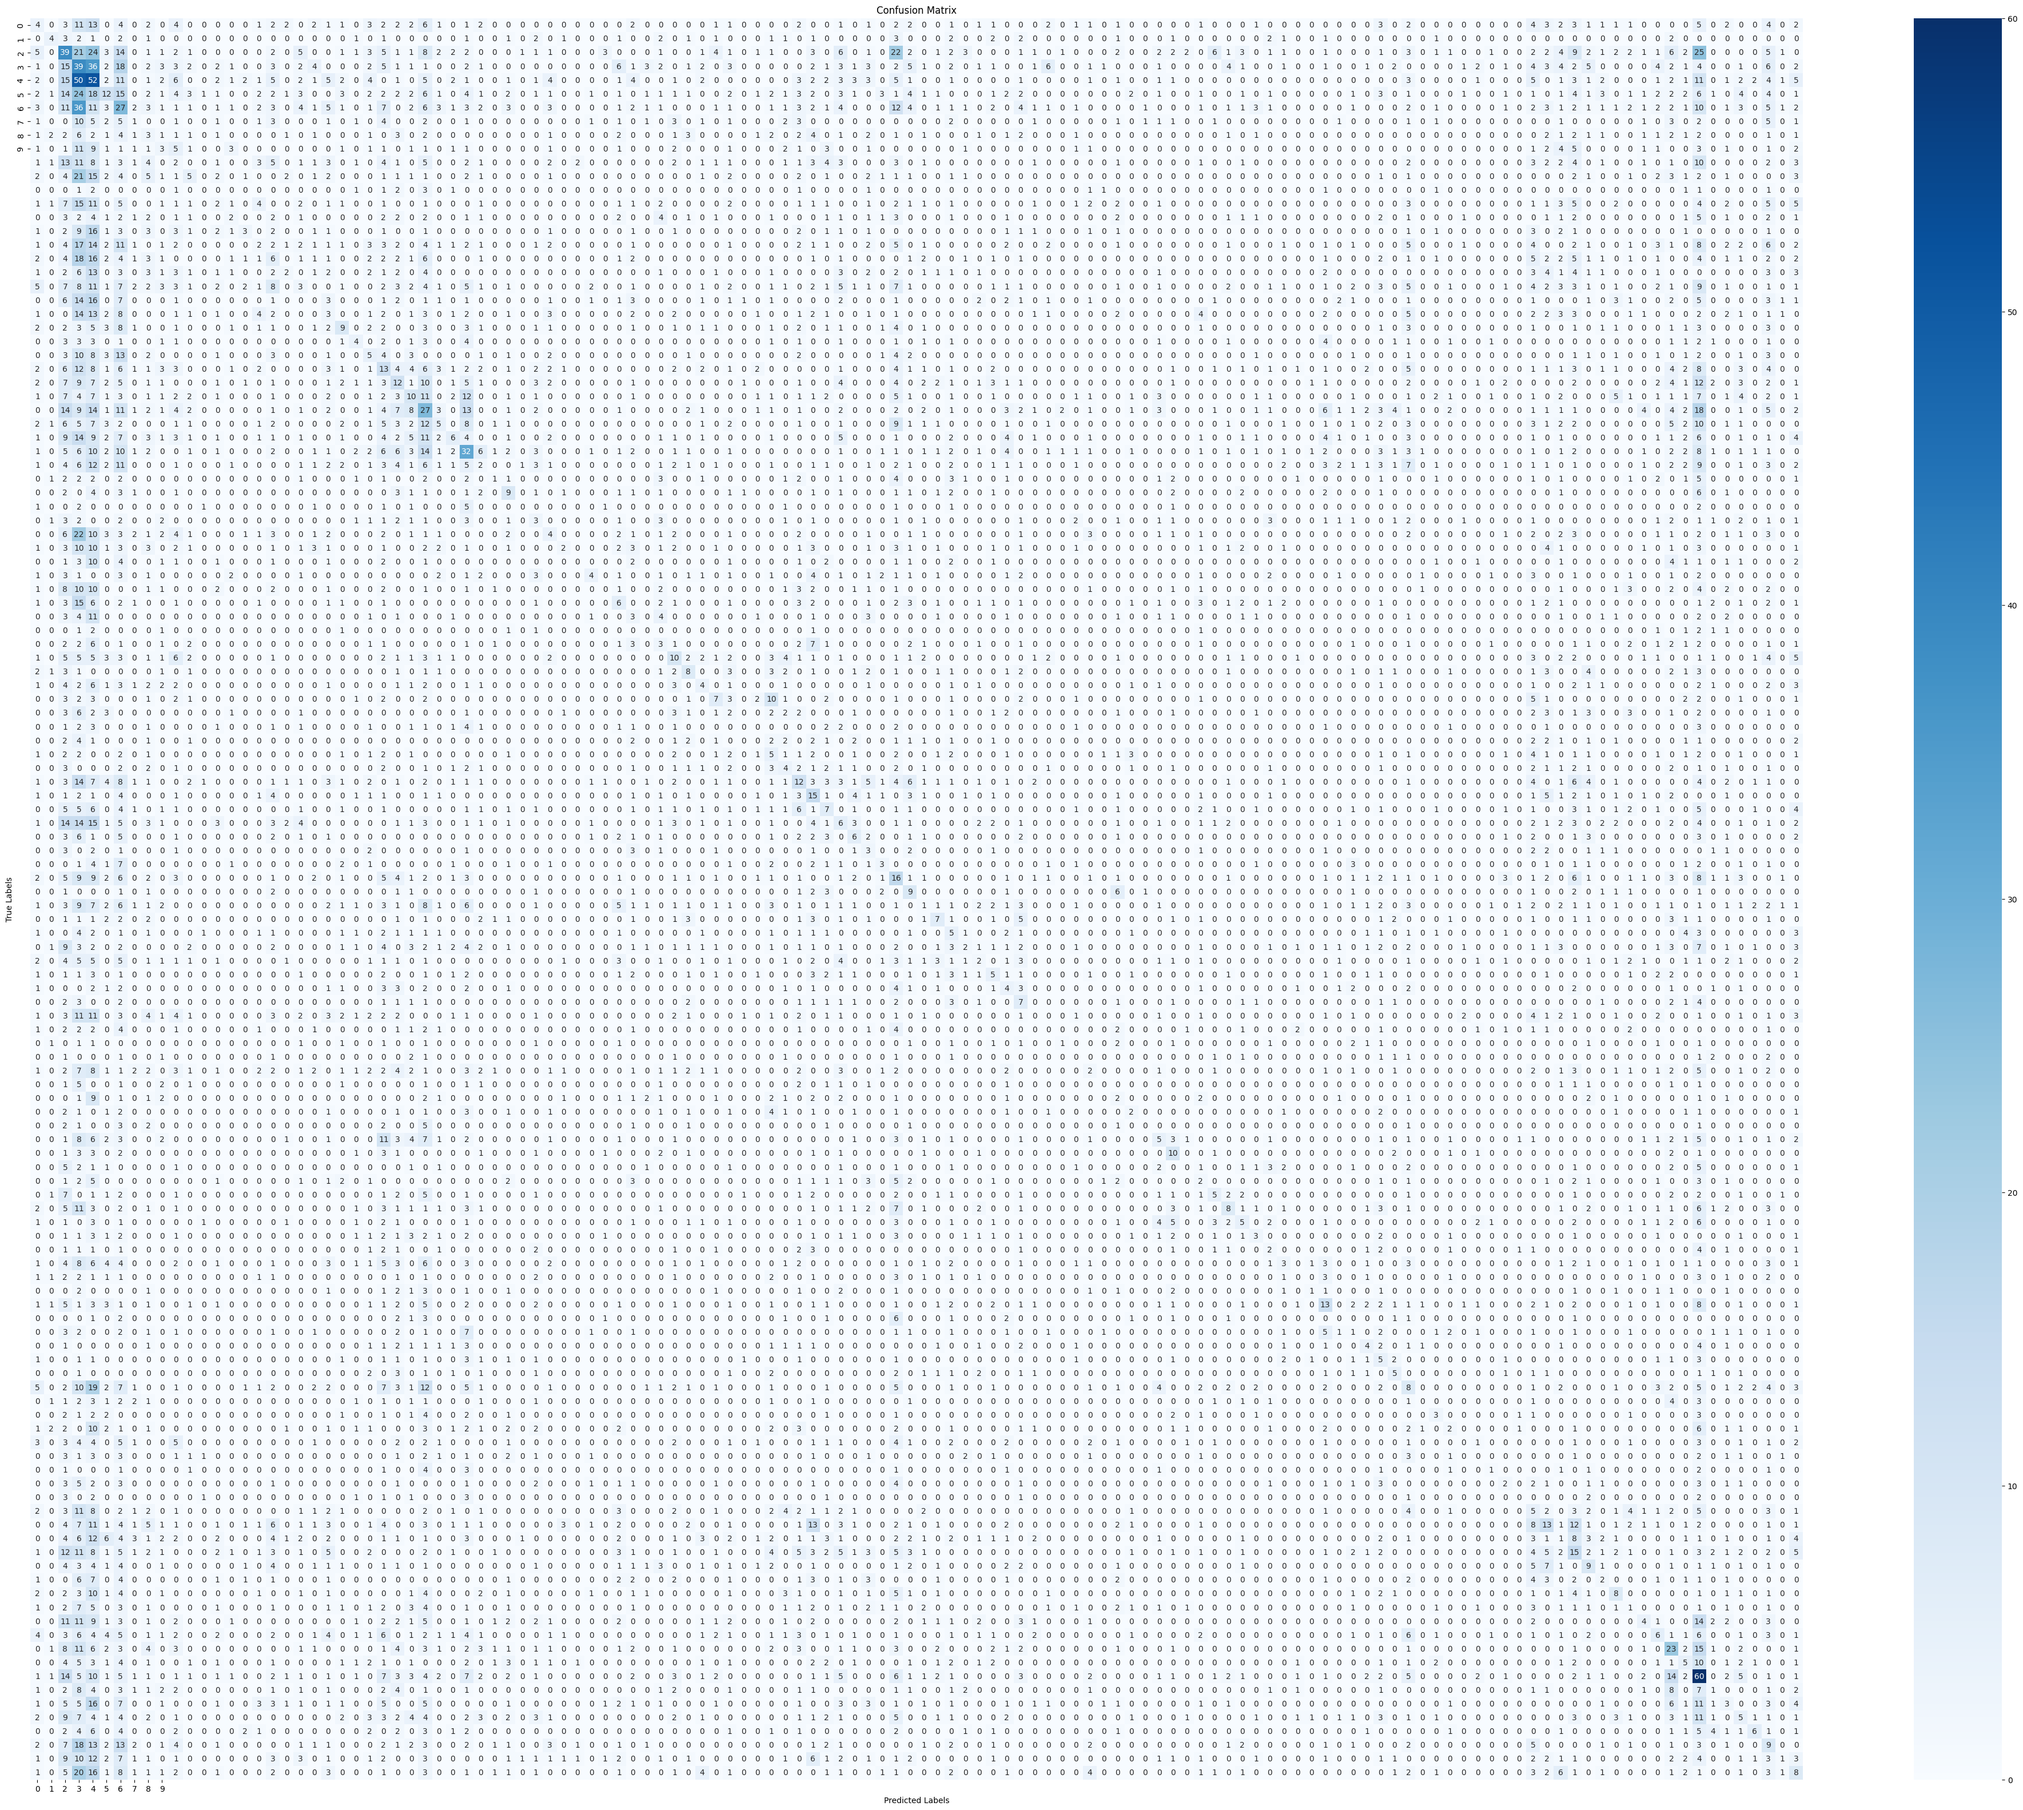
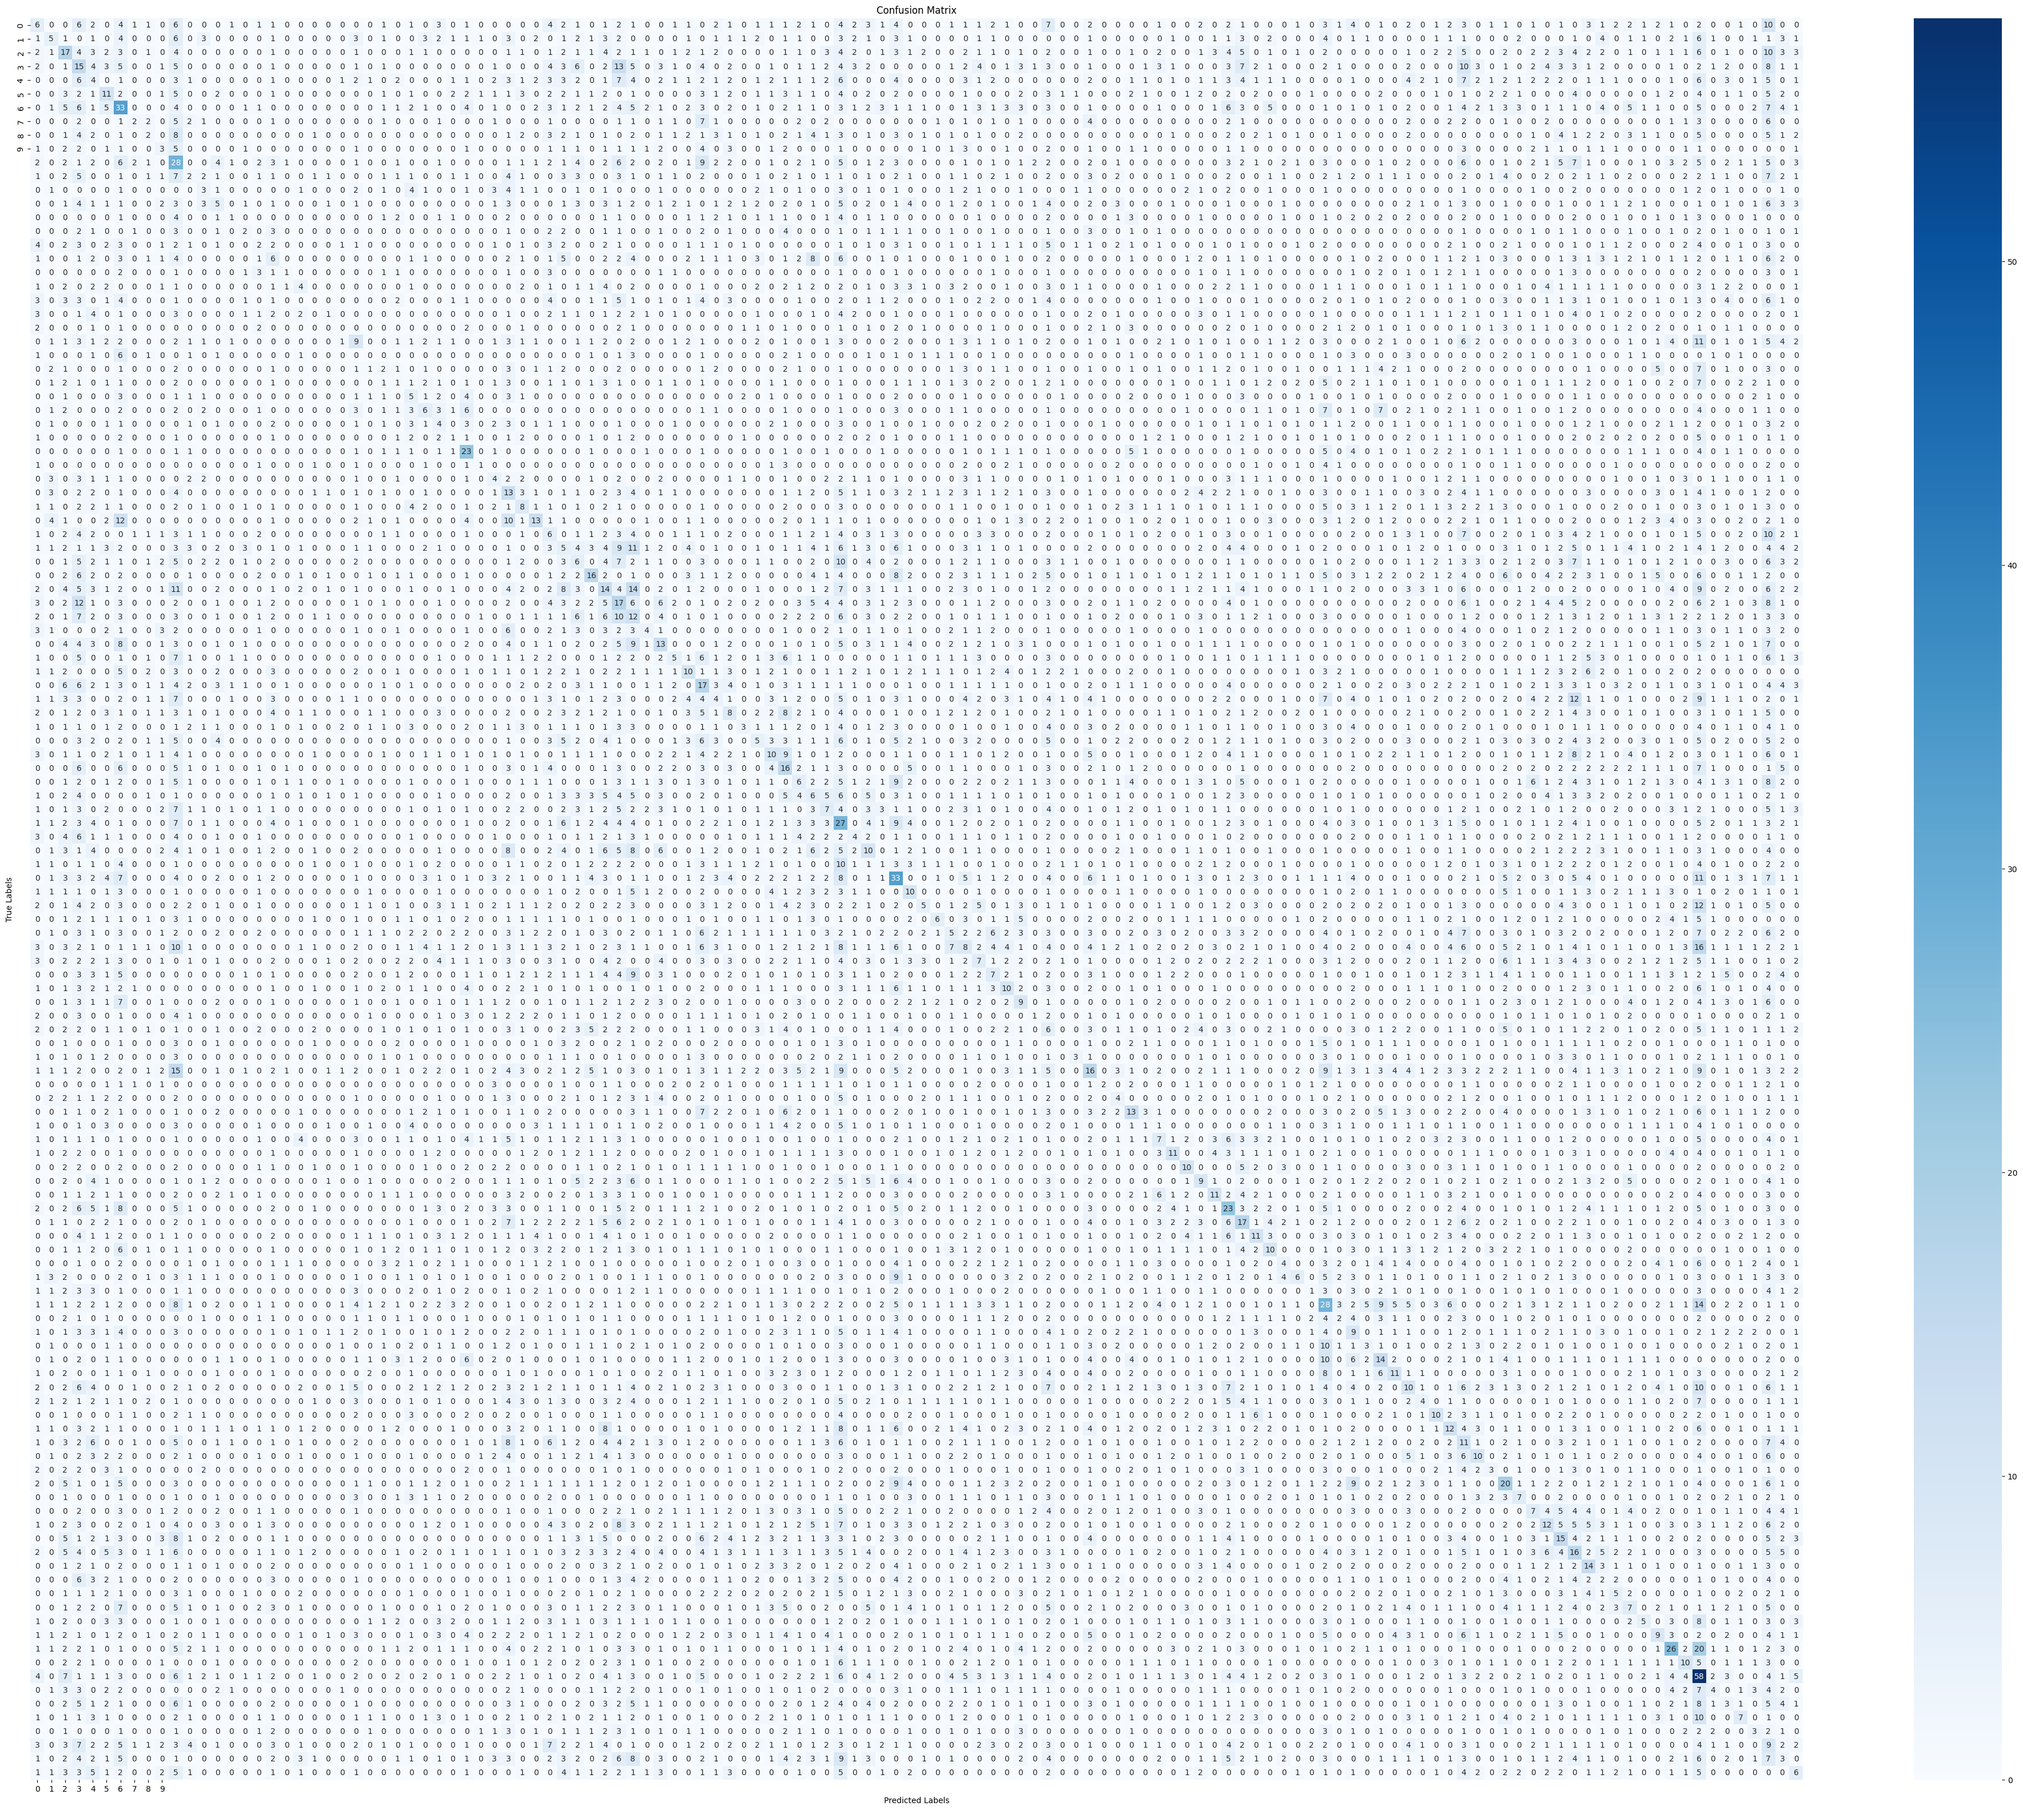
добавлен .gitignore

diff --git a/module/create_model.py b/module/create_model.py
@@ -37,15 +37,15 @@ def create_model(input_shape: tuple = (256, 256, 3), num_classes: int = 58) -> t
     x = layers.MaxPooling2D((2, 2))(x)
     x = layers.Dropout(0.5)(x)
 
-    # Блок 3
-    x = layers.Conv2D(128, (3, 3), padding="same")(x)
-    x = layers.BatchNormalization()(x)
-    x = layers.ReLU()(x)
-    x = layers.Conv2D(128, (3, 3), padding="same")(x)
-    x = layers.BatchNormalization()(x)
-    x = layers.ReLU()(x)
-    x = layers.MaxPooling2D((2, 2))(x)
-    x = layers.Dropout(0.5)(x)
+    # # Блок 3
+    # x = layers.Conv2D(128, (3, 3), padding="same")(x)
+    # x = layers.BatchNormalization()(x)
+    # x = layers.ReLU()(x)
+    # x = layers.Conv2D(128, (3, 3), padding="same")(x)
+    # x = layers.BatchNormalization()(x)
+    # x = layers.ReLU()(x)
+    # x = layers.MaxPooling2D((2, 2))(x)
+    # x = layers.Dropout(0.5)(x)
 
     # Полносвязный слой
     x = layers.Flatten()(x)

diff --git a/train.py b/train.py
@@ -39,7 +39,7 @@ def main(directory,
 if __name__ == '__main__':
     directory = '/mnt/d/project_practicum/dataset128_fixed/dataset'
     # directory = '/mnt/d/project_practicum/mnist_images'
-    batch_size = 16
+    batch_size = 8
     image_size = (64, 64)   # (28, 28) (64, 64) (256, 256)
     num_classes = 128 # 58 10 для mnist
     epochs = 200

diff --git a/README.md b/README.md
@@ -34,10 +34,8 @@
 и конвертнув разные форматы изображений, запустив файл make_data.py, 
 предварительно заполнив в строке файла путь до оригинального датасета datadir и путь, 
 куда сохранится обработанный датасет target_dir
-5. Обучите модель: загрузите файл train.py в IDE, поменяйте настройки, если необходимо, 
-структуру модели можно поменять в файле module/create_model.py. Запустите файл train.py <br>
-![images_for_readme/img_10.png](images_for_readme/img_10.png)
-6. Все артефакты обучения сохраняются с помощью фреймворка mlflow, 
+
+5. Все артефакты обучения сохраняются с помощью фреймворка mlflow, 
 надо поднять сервер mlflow локально на вашем компьютере.
 Чтобы запустить сервер MLflow, необходимо выполнить несколько шагов:
 
@@ -69,6 +67,10 @@
 ![images_for_readme/img_4.png](images_for_readme/img_4.png)
  - Пример графиков изменения ошибок и метрик во время обучения, все это на сервере mlflow
 ![images_for_readme/img_5.png](images_for_readme/img_5.png)
+
+6. Обучите модель: загрузите файл train.py в IDE, поменяйте настройки, если необходимо, 
+структуру модели можно поменять в файле module/create_model.py. Запустите файл train.py <br>
+![images_for_readme/img_10.png](images_for_readme/img_10.png)
 
 7. После того как вы обучили модели и выбрали лучшую, 
 копируем файл модели model.keras из хранилища артефактов в папку проекта models/1/ <br>
